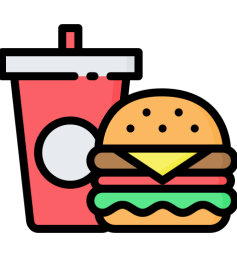
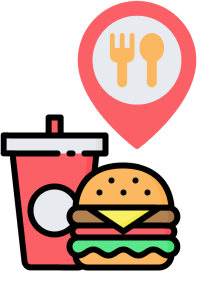
onboarding page done

diff --git a/lib/ui/views/startup/startup_viewmodel.dart b/lib/ui/views/startup/startup_viewmodel.dart
@@ -1,18 +1,22 @@
+import 'package:shared_preferences/shared_preferences.dart';
 import 'package:stacked/stacked.dart';
 import 'package:food_frenzy/app/app.locator.dart';
 import 'package:food_frenzy/app/app.router.dart';
 import 'package:stacked_services/stacked_services.dart';
 
 class StartupViewModel extends BaseViewModel {
-  final _navigationService = locator<NavigationService>();
-
-  // Place anything here that needs to happen before we get into the application
   Future runStartupLogic() async {
     await Future.delayed(const Duration(seconds: 3));
-
-    // This is where you can make decisions on where your app should navigate when
-    // you have custom startup logic
-
-    _navigationService.replaceWithOnboardingView();
+    bool? isFirstLaunch;
+    final _navigationService = locator<NavigationService>();
+    final SharedPreferences prefs = await SharedPreferences.getInstance();
+    isFirstLaunch = prefs.getBool('isFirstLaunch');
+    if (isFirstLaunch == null) {
+      _navigationService.replaceWithOnboardingView();
+      await prefs.setBool('isFirstLaunch', false); // set first launch to false
+    }else {
+      _navigationService.replaceWithInteractiveView();
+      //showToastMessage("Not first launch");
+    }
   }
 }

diff --git a/lib/ui/views/interactive/interactive_view.dart b/lib/ui/views/interactive/interactive_view.dart
@@ -53,10 +53,16 @@ class InteractiveView extends StackedView<InteractiveViewModel> {
                         ),
                         const Text('SHARE',
                             style: TextStyle(
-                                color: Color(0xFFFBAB10),
+                                color: Color(0xFFDA1D1D),
                                 fontWeight: FontWeight.bold)),
                       ],
                     ),
+                  ),
+                  const Text(
+                    'OR',
+                    style: TextStyle(
+                        color: Color(0xFFDA1D1D),
+                        fontWeight: FontWeight.bold),
                   ),
                   GestureDetector(
                     onTap: viewModel.toHomeView,
@@ -79,7 +85,7 @@ class InteractiveView extends StackedView<InteractiveViewModel> {
                       ),
                       const Text('DINE',
                           style: TextStyle(
-                              color: Color(0xFFFBAB10),
+                              color: Color(0xFFDA1D1D),
                               fontWeight: FontWeight.bold)),
                     ]),
                   ),

diff --git a/lib/ui/views/widgets/individual_onboarding.dart b/lib/ui/views/widgets/individual_onboarding.dart
@@ -7,10 +7,35 @@ class IndividualOnboarding extends StatelessWidget {
 
   @override
   Widget build(BuildContext context) {
-    return Center(
-      child: Image.asset(
-        data.imagePage, // TODO: Add image path here
-        fit: BoxFit.cover,),
+    return Column(
+      mainAxisAlignment: MainAxisAlignment.center,
+      children: [
+        const SizedBox(
+          height: 200,
+        ),
+        Center(
+          child: Image.asset(
+            data.imagePage,
+            height: 300,
+            width: 300,
+            // fit: BoxFit.cover,
+          ),
+        ),
+        Container(
+          margin: const EdgeInsets.only(right: 25.0, left: 25.0, top: 50.0),
+          child: Padding(
+            padding: const EdgeInsets.fromLTRB(40.0, 0.0, 40.0, 0.0),
+            child: Text(
+              data.message,
+              textAlign: TextAlign.center,
+              style: const TextStyle(
+                color: Color(0xFF78746D),
+                fontSize: 14,
+              ),
+            ),
+          ),
+        ),
+      ],
     );
   }
 }

diff --git a/lib/ui/views/onboarding/onboarding_viewmodel.dart b/lib/ui/views/onboarding/onboarding_viewmodel.dart
@@ -11,9 +11,9 @@ class OnboardingViewModel extends BaseViewModel {
   final _navigationService = locator<NavigationService>();
 
   final onBoardingList= [
-    const OnboardingData(imagePage: 'assets/onboarding1.png', title: '', message: ''),
-    const OnboardingData(imagePage: 'assets/onboarding2.png', title: '', message: ''),
-    const OnboardingData(imagePage: 'assets/onboarding3.png', title: '', message: ''),
+    const OnboardingData(imagePage: 'assets/onboarding1.png', title: '', message: 'Shake your phone to stir up the magic and watch as we reveal your restaurant  pick!'),
+    const OnboardingData(imagePage: 'assets/onboarding2.png', title: '', message: 'Check out the mouth watering menu and grab exclusive vouchers!'),
+    const OnboardingData(imagePage: 'assets/onboarding3.png', title: '', message: 'Find the location to generate your QR code to your exciting vouchers!'),
   ];
   int selectedPosition = 0;
 

diff --git a/lib/main.dart b/lib/main.dart
@@ -7,7 +7,6 @@ import 'package:food_frenzy/app/app.dialogs.dart';
 import 'package:food_frenzy/app/app.locator.dart';
 import 'package:food_frenzy/app/app.router.dart';
 import 'package:stacked_services/stacked_services.dart';
-import 'persistent_data.dart';
 
 // Entry point for the Flutter application
 Future<void> main() async {
@@ -17,7 +16,6 @@ Future<void> main() async {
   // Initialize the service locator (dependency injection)
   await setupLocator();
 
-  PersistentData.geData();
   // Setup the UI for dialogs
   setupDialogUi();
 
